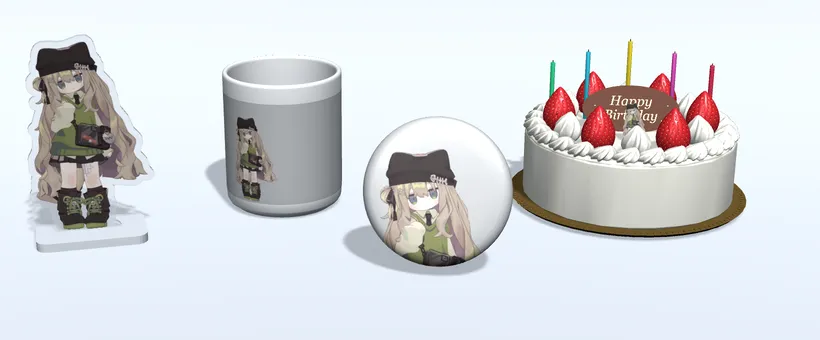
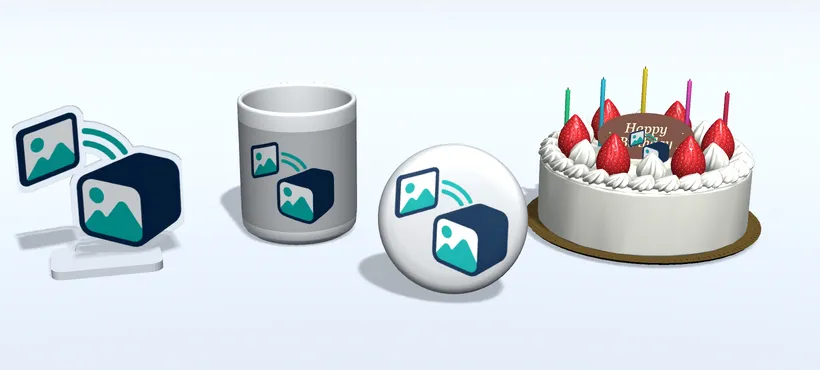
トップページの画像を VRPrintLab のアイコンに差し替え、作り方との間の余白をなくす
- グッズの写真を、アイコンを貼ったアクリルスタンド・マグカップ・缶バッジ・ケーキで Unity で撮り直す（アクリルはアイコンを下に寄せ、マグはプリントを正面に向ける）
- 試す欄のカードの画像をアイコンにし、正方形で表示する
- 方眼の背景を白くぼかさず、下の「作り方」まで続ける。下の余白を詰める
- 写真の列を少し広げ、試す欄を写真の高さの中央にそろえる
- 画像の代替テキストを「同じ画像」に直す（日英）

diff --git a/web/src/app/page.tsx b/web/src/app/page.tsx
@@ -44,9 +44,9 @@ export default async function Home({ searchParams }: PageProps<"/">) {
         </div>
       )}
 
-      {/* 見出しと、画像を1枚選んで試す欄 → 同じ画像を貼ったグッズの写真（Unity で撮ったもの） */}
+      {/* 見出しと、画像を1枚選んで試す欄 → 同じ画像を貼ったグッズの写真（Unity で撮ったもの）。方眼は下の「作り方」まで続ける */}
       <section className="hero-grid border-b border-zinc-200">
-        <div className="mx-auto flex w-full max-w-6xl flex-col gap-8 px-4 pt-10 pb-12 md:gap-10 md:pt-14 md:pb-16">
+        <div className="mx-auto flex w-full max-w-6xl flex-col gap-8 px-4 pt-10 pb-10 md:gap-10 md:pt-14 md:pb-12">
           <h1 className="text-center text-[1.75rem] font-extrabold leading-[1.3] tracking-tight text-balance text-brand [word-break:auto-phrase] sm:text-[2.25rem] lg:text-[2.6rem]">
             {m.headline.map((phrase) => (
               <span key={phrase} className="inline-block">
@@ -54,7 +54,7 @@ export default async function Home({ searchParams }: PageProps<"/">) {
               </span>
             ))}
           </h1>
-          <div className="grid items-center gap-6 md:grid-cols-[minmax(0,5fr)_auto_minmax(0,7fr)] md:gap-5">
+          <div className="grid items-center gap-6 md:grid-cols-[minmax(0,11fr)_auto_minmax(0,15fr)] md:gap-5">
             <HomeUpload templateSlug={trySlug} />
             <RainbowArrow />
             <figure className="flex flex-col gap-2">
@@ -64,7 +64,7 @@ export default async function Home({ searchParams }: PageProps<"/">) {
                 srcSet="/home/goods-820.webp 820w, /home/goods.webp 1640w"
                 sizes="(min-width: 1152px) 640px, (min-width: 768px) 55vw, 100vw"
                 width={1640}
-                height={680}
+                height={740}
                 alt={m.goodsAlt}
                 className="w-full rounded-2xl bg-zinc-100 ring-1 ring-zinc-200"
               />

diff --git a/web/src/app/home-upload.tsx b/web/src/app/home-upload.tsx
@@ -61,7 +61,7 @@ export function HomeUpload({ templateSlug }: { templateSlug: string }) {
       onDrop={onDrop}
       aria-labelledby={titleId}
       role="group"
-      className={`relative flex flex-col items-center gap-4 rounded-2xl border-2 border-dashed px-5 pt-7 pb-9 text-center transition-colors ${
+      className={`relative flex flex-col items-center justify-center gap-4 rounded-2xl md:mb-7 border-2 border-dashed px-5 pt-7 pb-9 text-center transition-colors ${
         dragging ? "border-accent bg-accent-soft" : "border-brand/55 bg-white/60"
       }`}
     >
@@ -101,7 +101,7 @@ export function HomeUpload({ templateSlug }: { templateSlug: string }) {
       <div aria-hidden="true" className="pointer-events-none absolute -right-5 -bottom-7 hidden w-28 rotate-[7deg] sm:block md:hidden lg:block">
         <div className="rounded-lg bg-white p-1.5 shadow-lg shadow-brand/20 ring-1 ring-zinc-200">
           {/* eslint-disable-next-line @next/next/no-img-element */}
-          <img src="/home/sample-art.webp" alt="" width={363} height={640} className="aspect-[5/6] w-full rounded object-cover object-top" />
+          <img src="/home/sample-art.webp" alt="" width={320} height={320} className="aspect-square w-full rounded bg-white object-contain p-1" />
         </div>
         <PointerIcon className="absolute -right-3 -bottom-4 w-9 -rotate-[7deg] drop-shadow" />
       </div>

diff --git a/web/src/app/home-messages.ts b/web/src/app/home-messages.ts
@@ -9,8 +9,7 @@ export const homeMessages = defineMessages({
     upload: "アップロード",
     opening: "開いています…",
     dropHint: "ここに画像をドロップしても使えます",
-    sampleAlt: "アップロードする画像の例（イラスト）",
-    goodsAlt: "同じイラストを貼ったアクリルスタンド・マグカップ・缶バッジ・ケーキ",
+    goodsAlt: "同じ画像を貼ったアクリルスタンド・マグカップ・缶バッジ・ケーキ",
     openError: "エディタを開けませんでした。もう一度お試しください。",
     steps: [
       { title: "テンプレートを選ぶ", body: "ケーキなど、展示したいグッズの形を選びます。" },
@@ -29,8 +28,7 @@ export const homeMessages = defineMessages({
     upload: "Upload",
     opening: "Opening…",
     dropHint: "You can also drop an image here",
-    sampleAlt: "Example of an image to upload (an illustration)",
-    goodsAlt: "An acrylic stand, mug, button badge, and cake with the same illustration",
+    goodsAlt: "An acrylic stand, mug, button badge, and cake with the same image",
     openError: "We couldn't open the editor. Please try again.",
     steps: [
       { title: "Choose a template", body: "Pick the item you want to display, like a cake or a tapestry." },

diff --git a/web/src/app/globals.css b/web/src/app/globals.css
@@ -104,14 +104,13 @@ h3 {
   }
 }
 
-/* トップページの見出しの背景（方眼紙。青緑の淡い色から白へ） */
+/* トップページの見出しの背景（方眼紙。青緑の淡い色から、下の「作り方」の灰色に近い色へ） */
 .hero-grid {
-  background-color: #fff;
+  background-color: #f4fbfa;
   background-image:
-    linear-gradient(to bottom, transparent 55%, #fff),
     linear-gradient(color-mix(in srgb, var(--color-accent) 10%, transparent) 1px, transparent 1px),
     linear-gradient(90deg, color-mix(in srgb, var(--color-accent) 10%, transparent) 1px, transparent 1px),
-    linear-gradient(160deg, #dff4f2, #f2fbfa 60%, #fff);
-  background-size: 100% 100%, 28px 28px, 28px 28px, 100% 100%;
-  background-position: 0 0, -1px -1px, -1px -1px, 0 0;
+    linear-gradient(170deg, #dcf3f1, #effaf9 55%, #f3f8f9);
+  background-size: 28px 28px, 28px 28px, 100% 100%;
+  background-position: -1px -1px, -1px -1px, 0 0;
 }

diff --git a/Document/handoff.md b/Document/handoff.md
@@ -179,7 +179,7 @@ Claude の Skill「frontend-design」（決まりきった作りに見えない 
 - **形**: 同じ形の白い箱（角丸＋影）を並べない。サムネイルは台の灰色に直接置き、文字は枠の外に出す。節は `Section`（上の区切り線と見出し。`components/ui.tsx`）で分ける。白い枠（`Card`）はログイン・登録のフォームだけ。角丸はボタン・入力欄 8px（`rounded-lg`）、サムネイル 12px（`rounded-xl`）、ダイアログ 16px。影はメニューとダイアログだけ
 - **ボタン**: `accent`（青緑）は作る・買う・ダウンロード・登録など先へ進む操作（1 画面に 1 つ）、`primary`（紺）は保存・確定、`secondary` はそのほか
 - **トンボ**（印刷の裁ち落としの目印。`.trim-marks`）: 印刷面を表す枠だけに使う（トップのグッズの台、エディタの画像を置く欄）。枠の外に 16px はみ出すので、周りに余白を取る
-- **トップページ**（2026-11-13 に利用者のデザイン案で作り直し）: 方眼紙の背景（`.hero-grid`）、中央の見出し、左に「画像を1枚アップして3Dプレビューを試す（無料）」の欄、虹色の矢印、右に同じイラストを貼ったグッズの写真。写真（`web/public/home/goods*.webp`）は、アクリルスタンド・マグカップ・缶バッジ・ケーキの作品のパッケージを Unity に読み込んで撮ったもの。イラストは利用者が用意した kipfel のサンプル（`sample-art.webp`）
+- **トップページ**（2026-11-13 に利用者のデザイン案で作り直し）: 方眼紙の背景（`.hero-grid`）、中央の見出し、左に「画像を1枚アップして3Dプレビューを試す（無料）」の欄、虹色の矢印、右に同じイラストを貼ったグッズの写真。写真（`web/public/home/goods*.webp`）は、アクリルスタンド・マグカップ・缶バッジ・ケーキの作品のパッケージを Unity に読み込んで撮ったもの。貼った画像は VRPrintLab のアイコン（利用者が用意した背景透明の PNG。試す欄のカードも同じ `sample-art.webp`）。方眼の背景は下の「作り方」まで続け、白い余白を作らない
   - 試す欄で画像を選ぶと、下書き（IndexedDB の `carry`）に入れて `/editor/acrylic-stand?draft=1` を開く（ログイン不要。アクリルスタンドが非公開ならおすすめ順の先頭。`app/home-upload.tsx`）。確認は `tools/verification/e2e/home-upload-check.cjs`
   - 見出しは語句ごとに `inline-block` で折り返す（スマホ幅で「VRChatに／置ける」と切れないように）
 - **避けること**: 見出しの上の小さなラベル、英大文字のラベル、英語の「A · B · C」の区切りや「—」でつなぐ文、ボタンの「→」、ページを開いたときにふわっと出る動き
